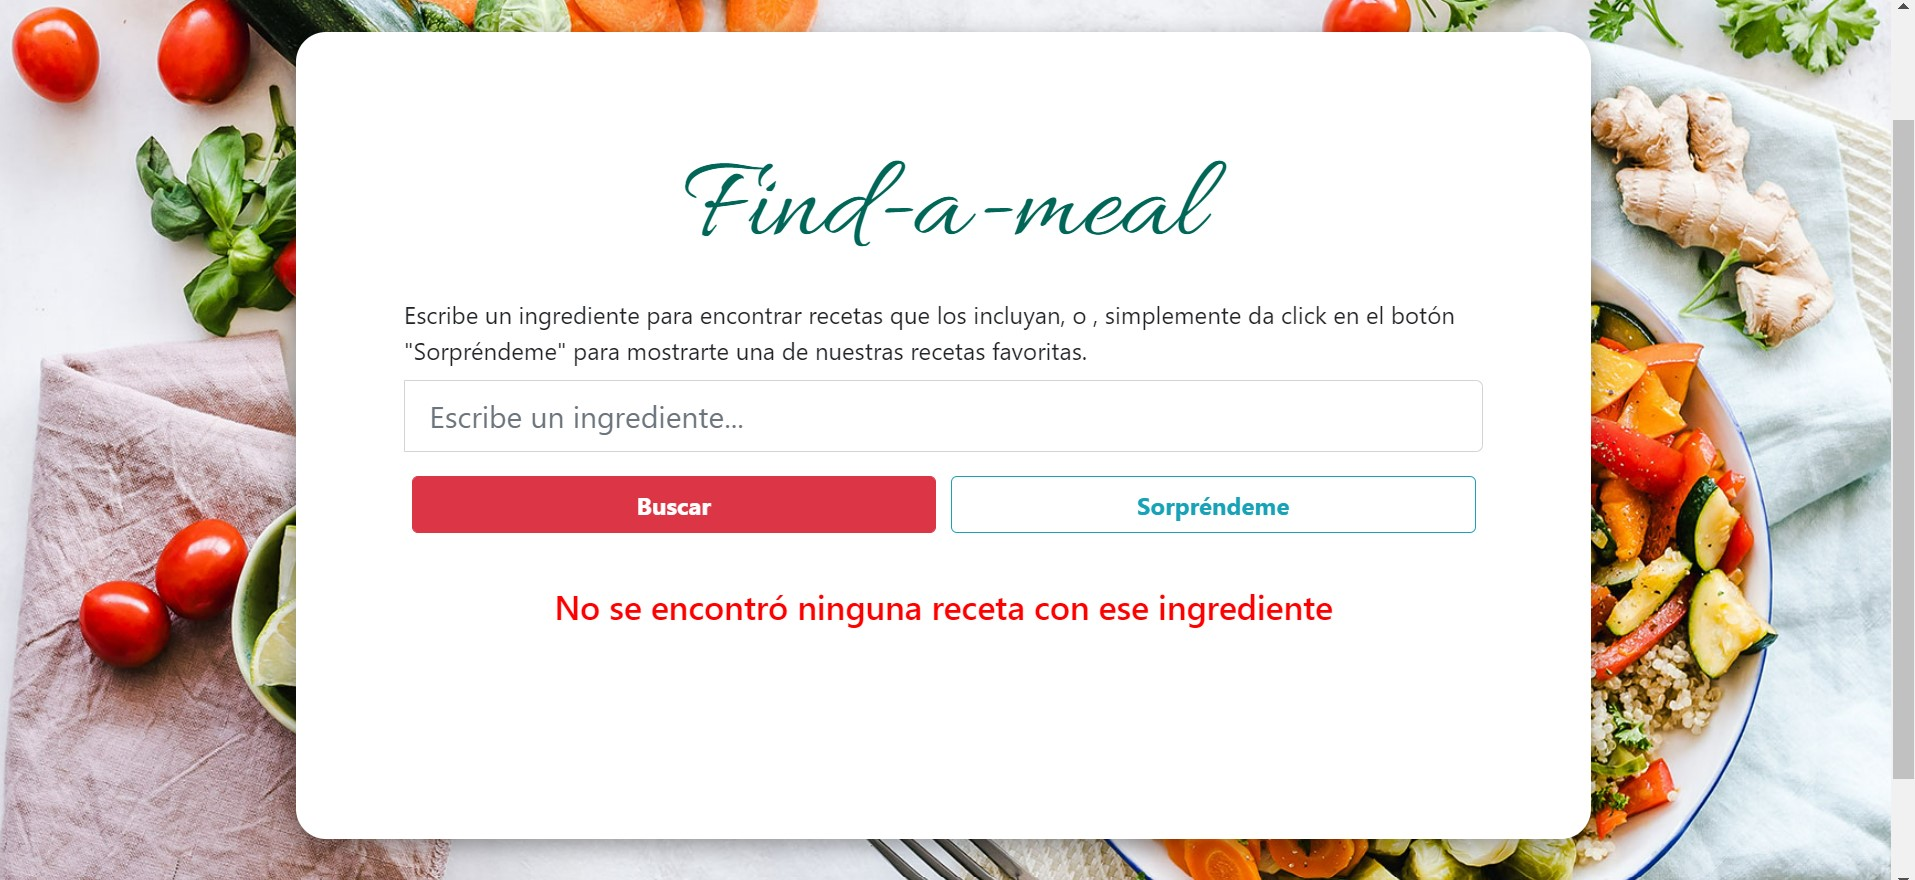
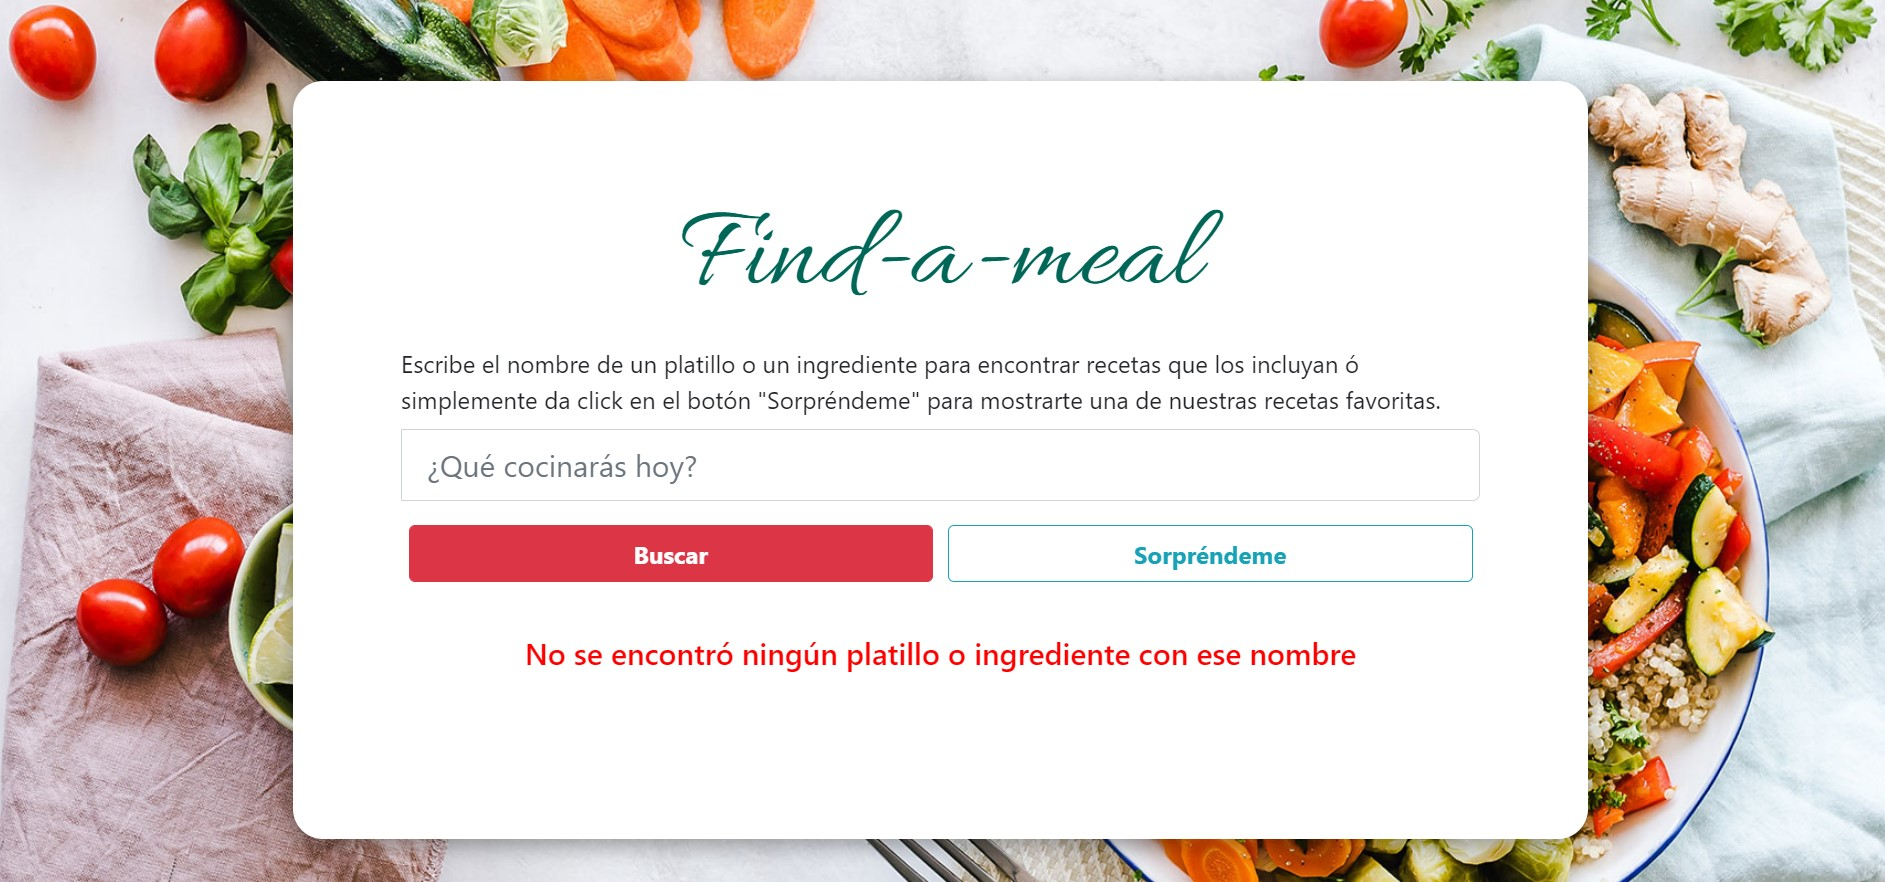
Se actualizan imágenes, se modifican links, se agrega lo de la búsqueda por platillo y últimos detalles de problemas por resolver

diff --git a/README.md b/README.md
@@ -1,12 +1,12 @@
 # Find-a-meal
-*¿No sabes qué hacer de comer con ingredientes que tienes en casa? :anguished: ¿te quedaste sin ideas o tienes un evento familiar y no sabes qué cocinar? :scream: ¡**Find-a meal** es la solución que buscabas! con un recetario totalmente digital y dinámico para descubrir tus nuevas recetas favoritas.*
+*¿No sabes qué hacer de comer con ingredientes que tienes en casa? :anguished: ¿te quedaste sin ideas o quisieras preparar aquél platillo que te gustó en un restaurante? :scream: ¡**Find-a meal** es la solución que buscabas! con un recetario totalmente digital y dinámico para descubrir tus nuevas recetas favoritas.*
 
 ![Imagen de la página principal](https://raw.githubusercontent.com/wayusei/find-a-meal/master/imagenesProyecto/pagina_principal.jpg) 
 
-## ¿Cómo usarlo? ¿?Pendiente si seguirá buscando por ingrediente¿?
-Con tan solo poner el nombre del ingrediente (:see_no_evil: OJO: este tiene que estar escrito en inglés) en "Escribe un ingrediente" y haciendo click en "Buscar" este te traerá las recetas que contienen el ingrediente que escribiste y ¡listo! podrás seleccionar cualquier receta haciendo click sobre la imagen o el nombre para leerla y comenzar a cocinar. Aquí un pequeño ejemplo:
+## ¿Cómo usarlo? 
+Con tan solo poner el nombre del platillo o del ingrediente (:see_no_evil: OJO: este tiene que estar escrito en inglés -aunque hay excepciones para nombres de platillos-) en "¿Qué cocinarás hoy?" y haciendo click en "Buscar" este te traerá las recetas que contienen el ingrediente que escribiste o la receta del platillo, según lo que hayas escrito, y ¡listo! podrás seleccionar la receta haciendo click sobre la imagen o el nombre para leerla y comenzar a cocinar. Aquí un pequeño ejemplo:
 
-1. En mi casa tengo tomates, asi que quisiera una receta que incluyera este ingrediente. Por lo tanto escribo "tomato" (si tienes dudas de cómo se dice el ingrediente de tu elección en inglés, ve aqui [GoogleTraductor](https://translate.google.com.mx/?hl=es&sl=es&tl=en&op=translate)) 
+1. En mi casa tengo tomates, asi que quisiera una receta que incluyera este ingrediente. Por lo tanto escribo "tomato" (si tienes dudas de cómo se dice el ingrediente de tu elección en inglés, ve aqui <a href="https://translate.google.com/?hl=es&sl=auto&tl=en&op=translate" target="_blank">Google Traductor</a>)
 
 ![Imagen para buscar tomato](https://raw.githubusercontent.com/wayusei/find-a-meal/master/imagenesProyecto/buscar_1.jpg) 
 
@@ -18,19 +18,19 @@ Con tan solo poner el nombre del ingrediente (:see_no_evil: OJO: este tiene que 
 
 ![Imagen de recetas](https://raw.githubusercontent.com/wayusei/find-a-meal/master/imagenesProyecto/buscar_3.jpg) 
 
-Y voilà:exclamation: todo para poner manos a la obra. En caso de tener problemas con el idioma inglés te dejamos el link a [GoogleTraductor](https://translate.google.com.mx/?hl=es&sl=es&tl=en&op=translate) otra vez para no perderte ningún detalle. Inclusive podrás observar la información nutrimental de tu platillo al final de la receta :eyes:
+Y voilà:exclamation: todo para poner manos a la obra. En caso de tener problemas con el idioma inglés te dejamos el link a <a href="https://translate.google.com/?hl=es&sl=en&tl=es&op=translate" target="_blank">Google Traductor</a> otra vez para no perderte ningún detalle. Inclusive podrás observar la información nutrimental de tu platillo al final de la receta :eyes:
 
 
 Si por otro lado quieres ser sorprendido por alguna de nuestras recetas favoritas simplemente haz click en el botón "Sorpréndeme" para mostrarte una receta al azar que seguramente te encantará. :heart_eyes:
 
 ![Imagen de sorprendeme](https://raw.githubusercontent.com/wayusei/find-a-meal/master/imagenesProyecto/sorprendeme.jpg)
 
-En caso de que no se encuentre el ingrediente que escribiste, hayas escrito un nombre de platillo (porque recordemos que solo busca por ingredientes) o lo hayas escrito en español (o en otro idioma incluso), te desplegará el mensaje "No se encontró ninguna receta con este ingrediente". Por lo que te invitamos a intentarlo una vez más :relaxed: que tu aventura en la cocina apenas comienza. :sparkles:
+En caso de que no se encuentre el ingrediente, el nombre del platillo que escribiste o lo hayas escrito en español (o en otro idioma incluso), te desplegará el mensaje "No se encontró ningún platillo o ingrediente con ese nombre". Por lo que te invitamos a intentarlo una vez más :relaxed: que tu aventura en la cocina apenas comienza. :sparkles:
 
 ![Imagen de error](https://raw.githubusercontent.com/wayusei/find-a-meal/master/imagenesProyecto/error.jpg)
 
 ## ¿Hay pre-requisitos para usar **Find-a-meal-**? :computer:
-Solo necesitas un equipo conectado a internet y acceder a la página [Find-a-meal](https://wayusei.github.io/find-a-meal/?#verReceta) para comenzar a descubrir el mundo de la cocina. 
+Solo necesitas un equipo conectado a internet y acceder a la página <a href="https://wayusei.github.io/find-a-meal/" target="_blank">Find-a-meal</a> para comenzar a descubrir el mundo de la cocina. 
 También puedes acceder al sitio por medio del siguiente código QR desde tu dispositivo móvil:
 
 ![Imagen de QR](https://raw.githubusercontent.com/wayusei/find-a-meal/master/imagenesProyecto/qr.png)
@@ -40,7 +40,7 @@ También puedes acceder al sitio por medio del siguiente código QR desde tu dis
 Proyecto final presentado por el equipo #16 como parte de la fase 2 "Programación con JavaScript"
 
 ## Herramientas y apoyo para la construcción del sitio :hammer:
-- API para obtener los resultados: [TheMealDB](https://www.themealdb.com/api.php)
+- API para obtener los resultados: <a href="https://www.themealdb.com/api.php" target="_blank">TheMealDB</a>
 - Moqups para el bosquejo/diseño de la página
 - Webpack, Babel, Webpack Dev Server
 - Loaders: Bootstrap, CSS
@@ -54,6 +54,7 @@ Lo primero fue que hicimos un grupo en slack para de primera instancia tenernos 
 Como fue díficil que haya una respuesta pronta (no todos teníamos activadas las notificaciones) pasamos a comunicarnos por Whatsapp lo que fue más fácil y cómodo para todos. Finalmente el 18 de agosto todos estábamos en el grupo para organizarnos mejor.
 
 Un día después nuestro compañero Rodrigo había creado el repositorio en Github y nos mandó las invitaciones para empezar a colaborar. Como todavía no teníamos los roles que desempeñaríamos cada quien, simplemente estaba un HTML básico para posteriormente repartir los features. 
+
 Primeramente se hizo un bosquejo del diseño de lo que sería la página principal usando la página de Moqups para esto: un fondo y sobre el dos botones, un input y el título "Find-a-meal".
 
 ![Imagen de primer diseño](https://raw.githubusercontent.com/wayusei/find-a-meal/master/imagenesProyecto/diseño.jpg)
@@ -80,9 +81,12 @@ También se cambió el diseño de la página: (este es el viejo diseño)
 
 Algunos problemas que se vieron fueron que la fuente original que se vió para la página no se subió correctamente (se cambió por otra), hubo confusión sobre el documento index.html en la rama main y develop (por lo que afectó cuando se cargó la página para ver los cambios) y no sé sabía sobre cuál trabajar; al escribir un ingrediente en la página no buscaba nada (WebPack no buscaba ingredientes) y se decidió cambiar el mensaje "No se encontró ninguna receta con este ingrediente", que aparecía como un cuadro de diálogo en el navegador, a que saliera abajo donde se supone que salen las recetas. 
 
-Algunos problemas continuaron como que la API de búsqueda por ingredientes no traía todos los datos, al seleccionar una receta salía el modal vacío (solo se visualizaba el título), problema con la altura de las cards, 
+Algunos problemas continuaron como que la API de búsqueda por ingredientes no traía todos los datos, al seleccionar una receta salía el modal vacío (solo se visualizaba el título), problema con la altura de las cards y que el buscador e input no aceptaba la tecla enter (se refrescaba la página cada vez que se presionaba enter).
 
-¿?para poder buscar en la API por nombre del platillo (aparte de por ingrediente) ya solo me quedará investigar cómo evitar que se 'refresque' la página si le damos 'Enter' en vez de clic en el botón de búsqueda
+Otros detalles que faltaban era agregar la búsqueda por platillo ya que solo lo hacía por ingrediente (estaba desde el inicio pero por falta de comunicación en la parte de por qué método buscaría la receta se cambió solo a buscar por ingredientes) y que se justificara el texto en la preparación de la receta. 
+
+Los últimos pasos fueron actualizar completamente el README con la página ya concluida y el vídeo del equipo como último requisito. 
+
 
 ## Integrantes del equipo de Find-a-meal :construction_worker:
 - Rodrigo Rosas
